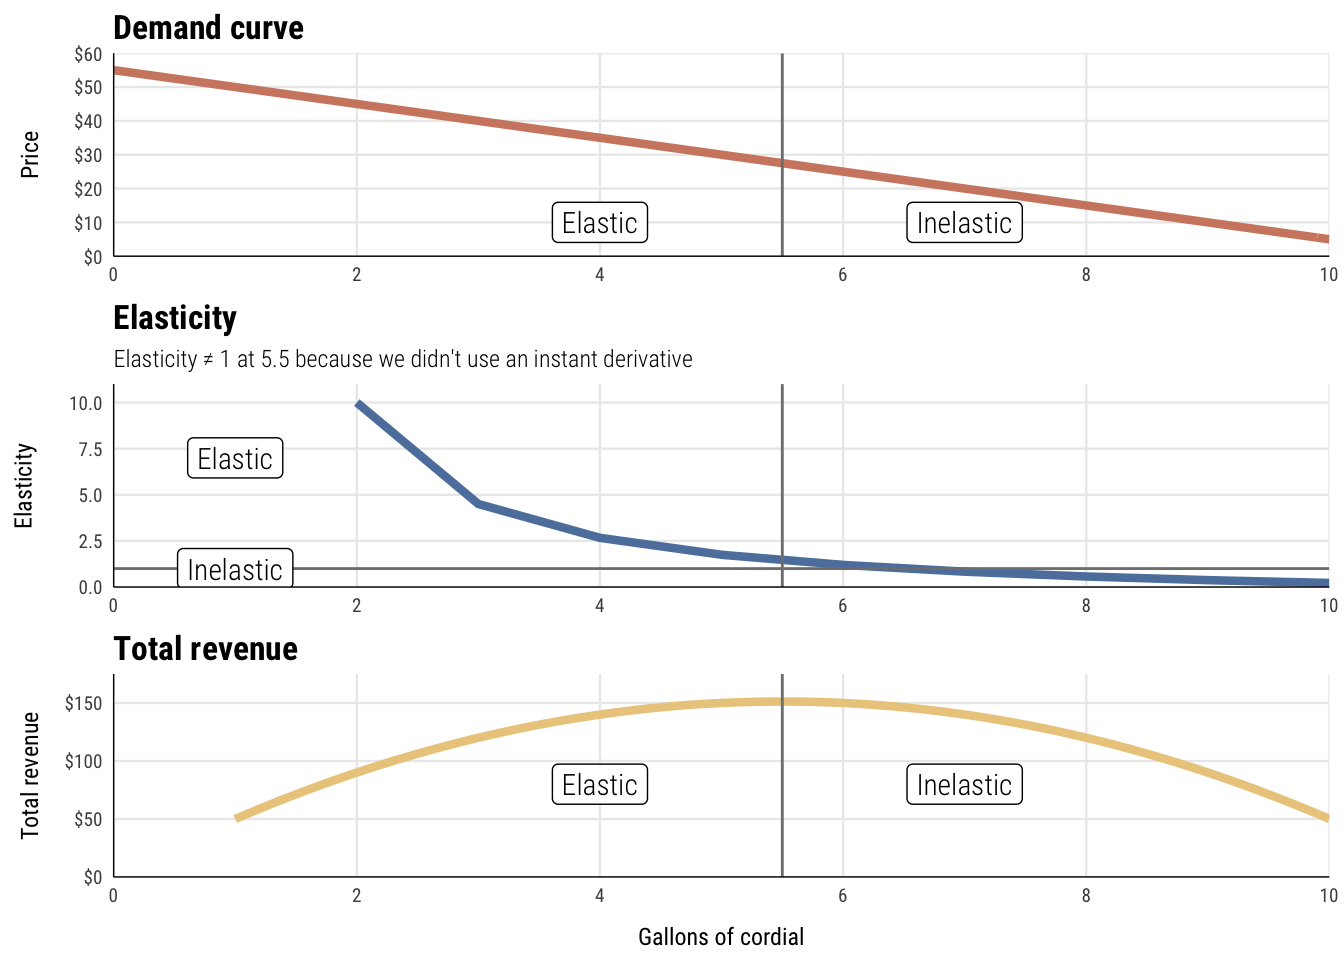
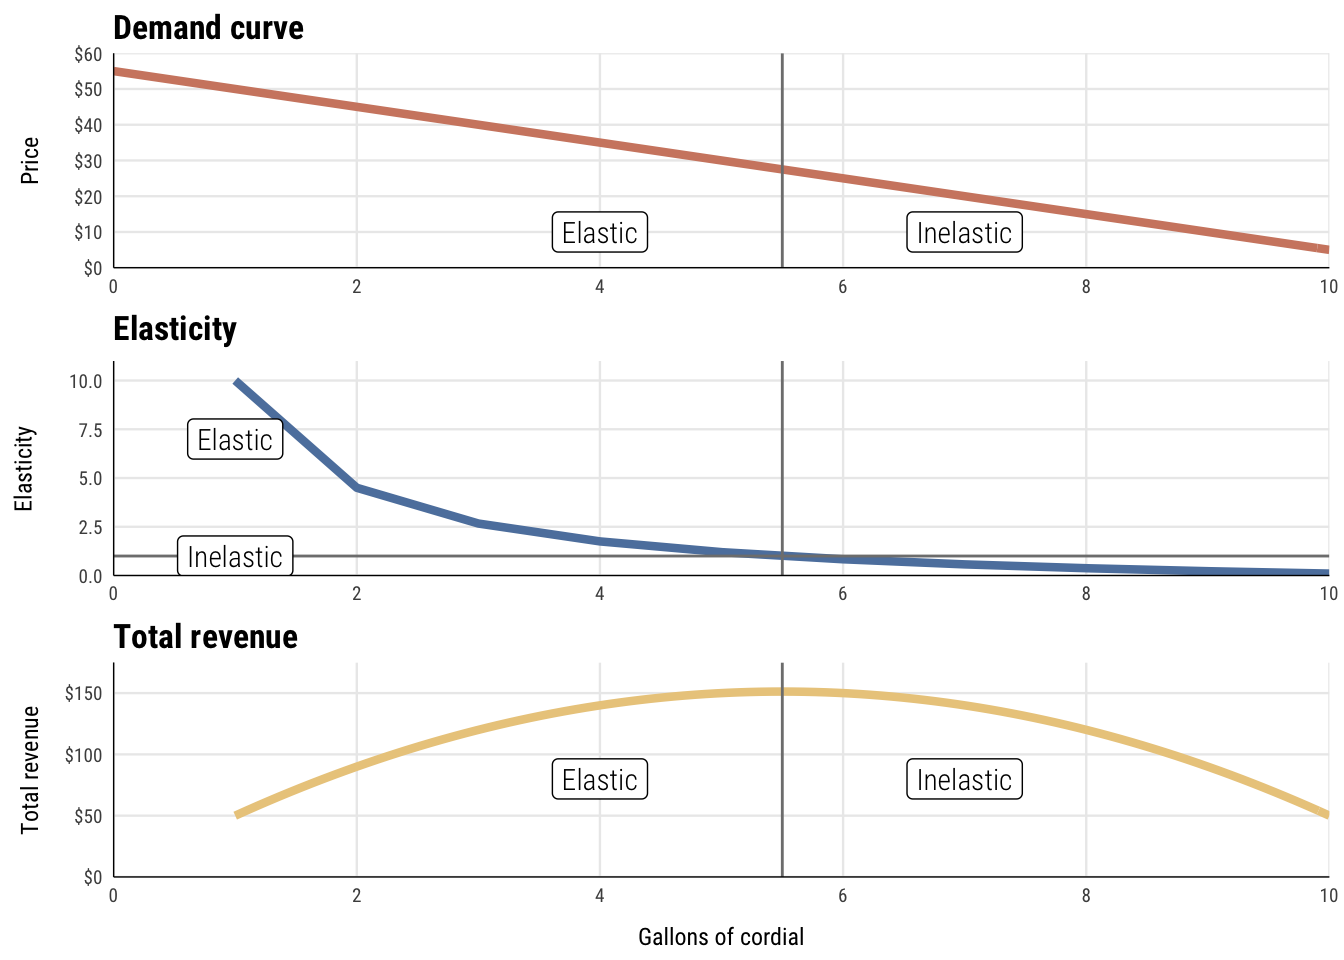
Correct elasticity details

diff --git a/content/class/11-class.html b/content/class/11-class.html
@@ -626,20 +626,37 @@ editor_options:
  &amp;= - \frac{\% \Delta Q}{\% \Delta P}
 \end{align}
 \]</span></p>
-<table style="width:64%;">
+<p>Remember that <span class="math inline">\(\% \Delta Q = \frac{Q_{\text{new}} - Q}{Q}\)</span> and that <span class="math inline">\(\% \Delta P = \frac{P_{\text{new}} - P}{P}\)</span> (or just <span class="math inline">\(\frac{\text{new} - \text{old}}{\text{old}}\)</span>). We can also write <span class="math inline">\(Q_{\text{new}} - Q\)</span> as <span class="math inline">\(\Delta Q\)</span>, or just the change in <span class="math inline">\(Q\)</span> (and also <span class="math inline">\(\Delta P\)</span>) This means we can rewrite the equation like so:</p>
+<p><span class="math display">\[
+\begin{align}
+\varepsilon &amp;= - \frac{\% \Delta Q}{\% \Delta P} \\
+ &amp;= - \frac{\frac{Q_{\text{new}} - Q}{Q}}{\frac{P_{\text{new}} - P}{P}} \\
+ &amp;= - \frac{\frac{\Delta Q}{Q}}{\frac{\Delta P}{P}}
+\end{align}
+\]</span></p>
+<p>We can then simplify this huge hairy fraction by multiplying both the numerator and denominator by the inverse of the denominator, <span class="math inline">\(\frac{P}{\Delta P}\)</span>:</p>
+<p><span class="math display">\[
+\begin{align}
+\varepsilon &amp;= - \frac{\frac{\Delta Q}{Q}}{\frac{\Delta P}{P}} \times \frac{\frac{P}{\Delta P}}{\frac{P}{\Delta P}} \\
+ &amp;= - \frac{\Delta Q}{Q} \times \frac{P}{\Delta P} \\
+ &amp;= - \frac{\Delta Q}{\Delta P} \times \frac{P}{Q}
+\end{align}
+\]</span></p>
+<p>That’s the final version of the price elasticity of demand formula: <span class="math inline">\(\varepsilon = - \frac{\Delta Q}{\Delta P} \times \frac{P}{Q}\)</span>. Conveniently, <span class="math inline">\(\frac{\Delta Q}{\Delta P}\)</span> is also the slope of the demand curve</p>
+<table>
 <colgroup>
 <col style="width: 15%" />
-<col style="width: 11%" />
-<col style="width: 12%" />
-<col style="width: 12%" />
-<col style="width: 12%" />
+<col style="width: 10%" />
+<col style="width: 41%" />
+<col style="width: 21%" />
+<col style="width: 10%" />
 </colgroup>
 <thead>
 <tr class="header">
 <th style="text-align: center;">Quantity</th>
 <th style="text-align: center;">Price</th>
-<th style="text-align: center;">%∆Q</th>
-<th style="text-align: center;">%∆P</th>
+<th style="text-align: center;"><span class="math inline">\(\frac{\Delta Q}{\Delta P}\)</span></th>
+<th style="text-align: center;"><span class="math inline">\(\frac{P}{Q}\)</span></th>
 <th style="text-align: center;">ϵ</th>
 </tr>
 </thead>
@@ -647,72 +664,72 @@ editor_options:
 <tr class="odd">
 <td style="text-align: center;">1</td>
 <td style="text-align: center;">$50</td>
-<td style="text-align: center;">—</td>
-<td style="text-align: center;">—</td>
-<td style="text-align: center;">—</td>
+<td style="text-align: center;">-0.2</td>
+<td style="text-align: center;">50</td>
+<td style="text-align: center;">10</td>
 </tr>
 <tr class="even">
 <td style="text-align: center;">2</td>
 <td style="text-align: center;">$45</td>
-<td style="text-align: center;">100.0%</td>
-<td style="text-align: center;">-10.0%</td>
-<td style="text-align: center;">10</td>
+<td style="text-align: center;">-0.2</td>
+<td style="text-align: center;">22.5</td>
+<td style="text-align: center;">4.5</td>
 </tr>
 <tr class="odd">
 <td style="text-align: center;">3</td>
 <td style="text-align: center;">$40</td>
-<td style="text-align: center;">50.0%</td>
-<td style="text-align: center;">-11.1%</td>
-<td style="text-align: center;">4.5</td>
+<td style="text-align: center;">-0.2</td>
+<td style="text-align: center;">13.33</td>
+<td style="text-align: center;">2.667</td>
 </tr>
 <tr class="even">
 <td style="text-align: center;">4</td>
 <td style="text-align: center;">$35</td>
-<td style="text-align: center;">33.3%</td>
-<td style="text-align: center;">-12.5%</td>
-<td style="text-align: center;">2.667</td>
+<td style="text-align: center;">-0.2</td>
+<td style="text-align: center;">8.75</td>
+<td style="text-align: center;">1.75</td>
 </tr>
 <tr class="odd">
 <td style="text-align: center;">5</td>
 <td style="text-align: center;">$30</td>
-<td style="text-align: center;">25.0%</td>
-<td style="text-align: center;">-14.3%</td>
-<td style="text-align: center;">1.75</td>
+<td style="text-align: center;">-0.2</td>
+<td style="text-align: center;">6</td>
+<td style="text-align: center;">1.2</td>
 </tr>
 <tr class="even">
 <td style="text-align: center;">6</td>
 <td style="text-align: center;">$25</td>
-<td style="text-align: center;">20.0%</td>
-<td style="text-align: center;">-16.7%</td>
-<td style="text-align: center;">1.2</td>
+<td style="text-align: center;">-0.2</td>
+<td style="text-align: center;">4.167</td>
+<td style="text-align: center;">0.8333</td>
 </tr>
 <tr class="odd">
 <td style="text-align: center;">7</td>
 <td style="text-align: center;">$20</td>
-<td style="text-align: center;">16.7%</td>
-<td style="text-align: center;">-20.0%</td>
-<td style="text-align: center;">0.8333</td>
+<td style="text-align: center;">-0.2</td>
+<td style="text-align: center;">2.857</td>
+<td style="text-align: center;">0.5714</td>
 </tr>
 <tr class="even">
 <td style="text-align: center;">8</td>
 <td style="text-align: center;">$15</td>
-<td style="text-align: center;">14.3%</td>
-<td style="text-align: center;">-25.0%</td>
-<td style="text-align: center;">0.5714</td>
+<td style="text-align: center;">-0.2</td>
+<td style="text-align: center;">1.875</td>
+<td style="text-align: center;">0.375</td>
 </tr>
 <tr class="odd">
 <td style="text-align: center;">9</td>
 <td style="text-align: center;">$10</td>
-<td style="text-align: center;">12.5%</td>
-<td style="text-align: center;">-33.3%</td>
-<td style="text-align: center;">0.375</td>
+<td style="text-align: center;">-0.2</td>
+<td style="text-align: center;">1.111</td>
+<td style="text-align: center;">0.2222</td>
 </tr>
 <tr class="even">
 <td style="text-align: center;">10</td>
 <td style="text-align: center;">$5</td>
-<td style="text-align: center;">11.1%</td>
-<td style="text-align: center;">-50.0%</td>
-<td style="text-align: center;">0.2222</td>
+<td style="text-align: center;">-0.2</td>
+<td style="text-align: center;">0.5</td>
+<td style="text-align: center;">0.1</td>
 </tr>
 </tbody>
 </table>
